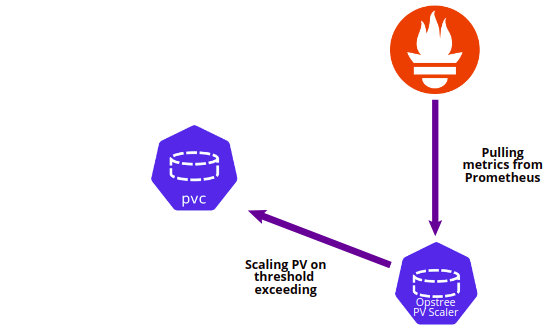
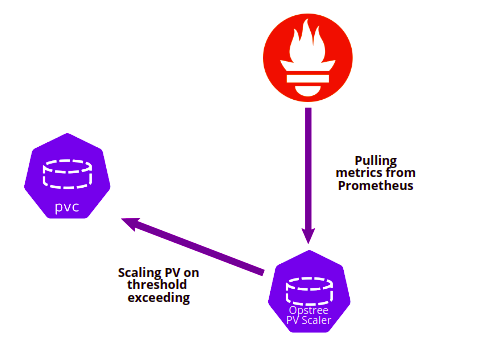
Updated image alignment

Changed region(s): [[0.031, 0.0, 0.9917, 0.988], [0.2479, 0.7485, 0.4029, 0.8683]]

diff --git a/README.md b/README.md
@@ -1,6 +1,10 @@
+<p align="center">
+  <img src="./static/dynamic-pv-scaler.png">
+</p>
+
 ## Opstree PV(Persistent Volume) Scaler
 
-![](./static/dynamic-pv-scaler.png)
+![]()
 
 A golang based Kubernetes application which has been created to overcome the scaling issue of Persistent Volume in Kubernetes. This can scale the Persistent Volume on the basis of threshold which you have set.
 
@@ -8,7 +12,9 @@ A golang based Kubernetes application which has been created to overcome the sca
 
 ### Architecture
 
-![](./static/dynamic-pv-scaler-arch.png)
+<p align="center">
+  <img src="./static/dynamic-pv-scaler-arch.png">
+</p>
 
 ### Pre-requisites
 
